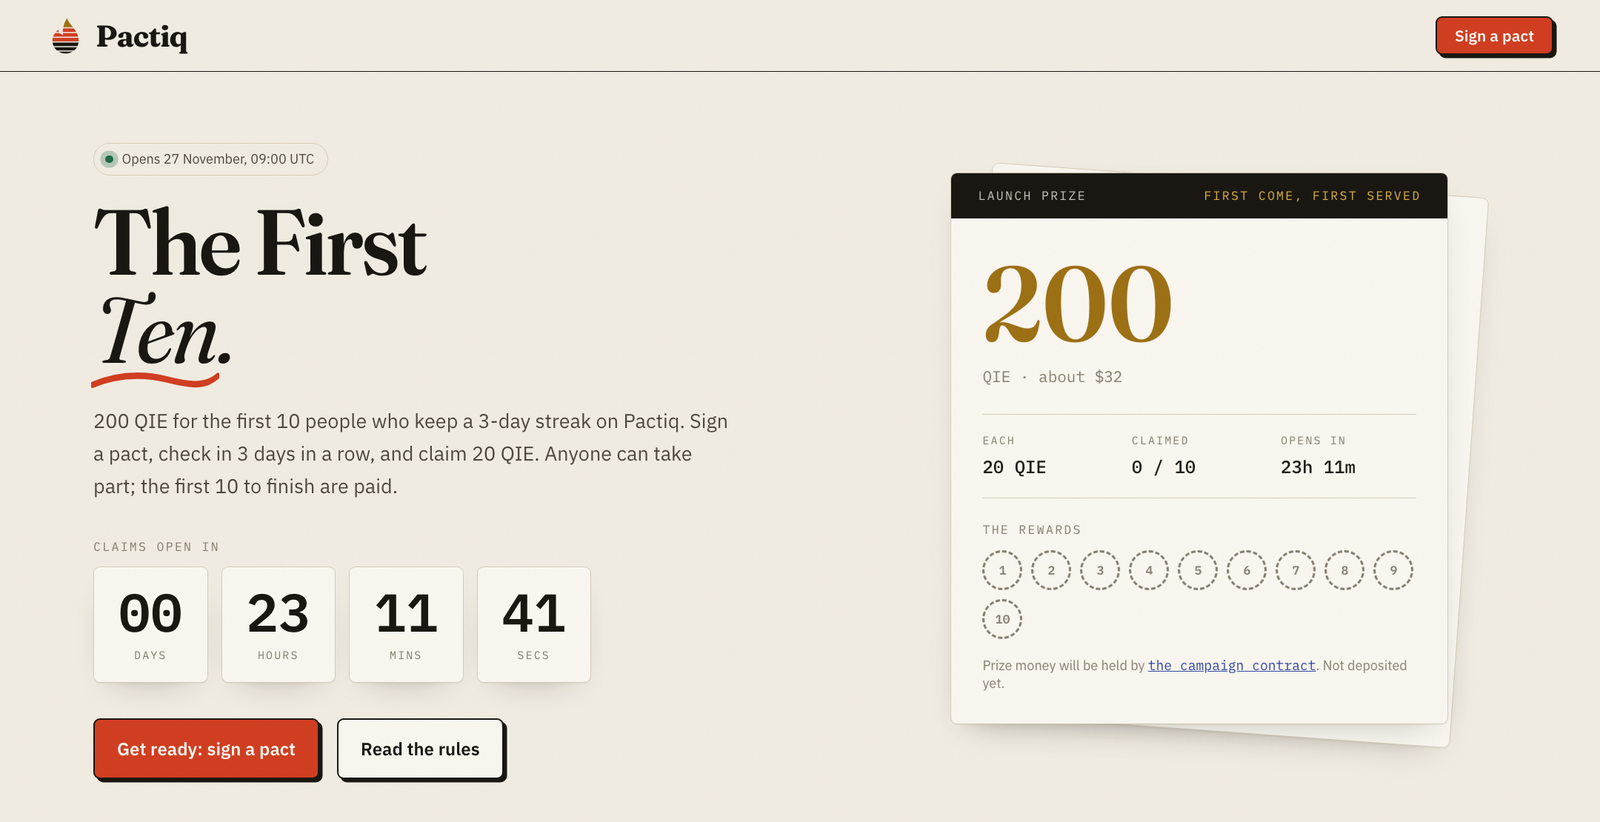
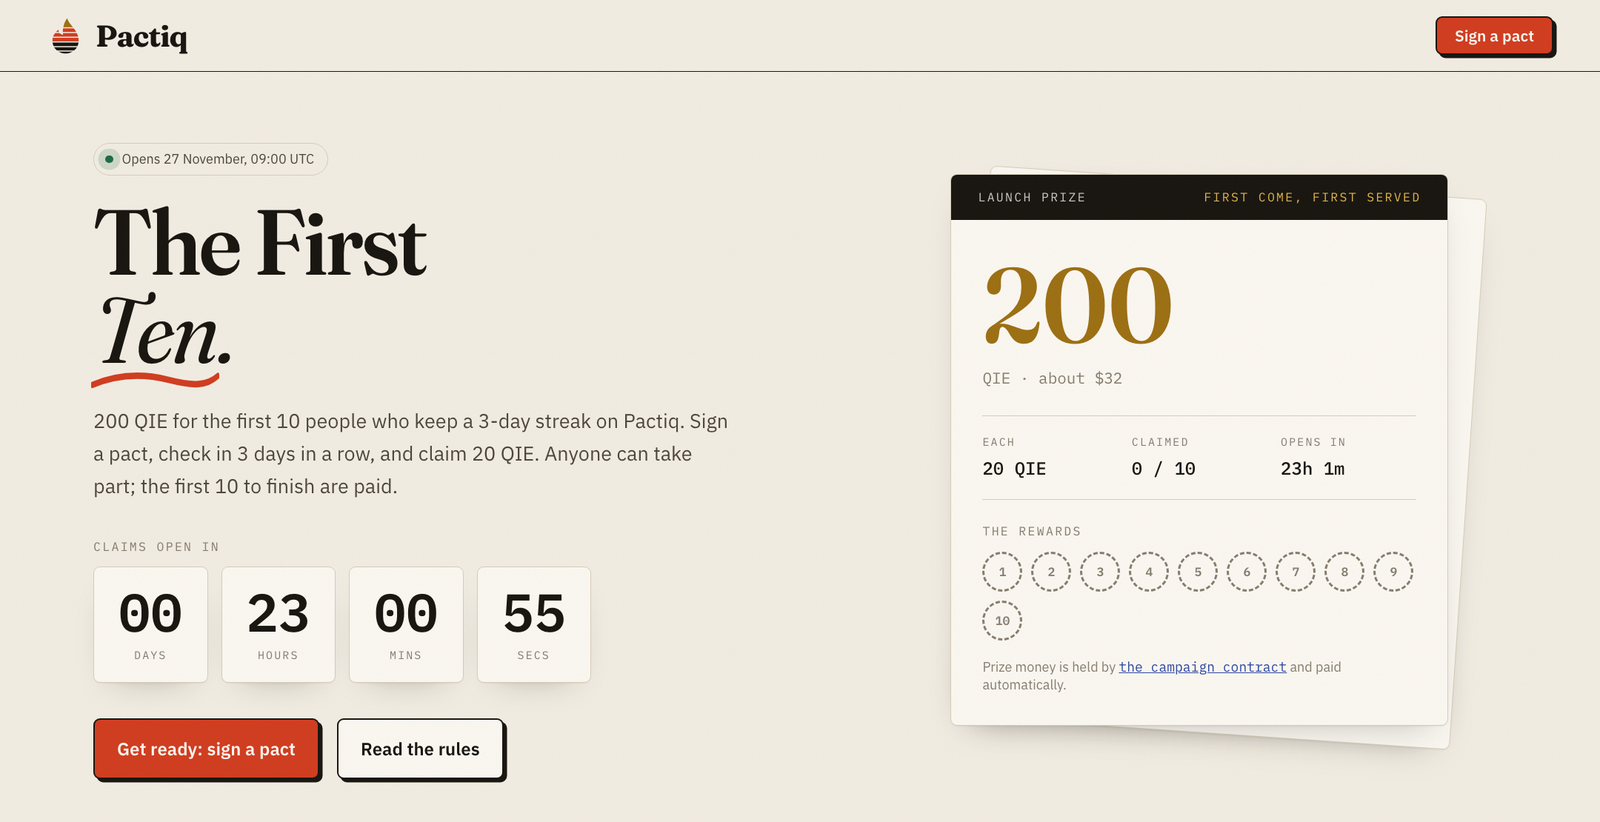
docs: the launch campaign is funded

diff --git a/README.md b/README.md
@@ -307,7 +307,7 @@ Read from the chain on Nov 26 2026 (unchanged since Nov 23): 5 pacts, 1 squad, 2
 | `.qie` names checked against QIE's registries | No verified check-in, settlement or badge exists on mainnet yet (Nov 26 2026) |
 | AI verdicts from a real vision model on the 0G Compute Router | The AI witness has not yet been scored on a set of real check-in photos (`pnpm witness:eval` exists for that) |
 | The hosted app at [usepactiq.vercel.app](https://usepactiq.vercel.app), with totals, ticker, squads and register read from the chain | Push reminders are built and tested locally, not yet delivered from a hosted deployment |
-| The launch campaign contract and its immutable terms | The campaign holds 0 QIE until its 200 QIE prize is deposited; the page says "Not deposited yet" |
+| The launch campaign contract and its immutable terms, funded with 204 QIE on Nov 26 2026 ([transaction](https://mainnet.qie.digital/tx/0xf9b1b328de01e61442c6e87f4dd4395f3cf45f190f096e73befcc8766dcb88ed)) | |
 | | No charity is listed on mainnet |
 
 ## Tech stack
@@ -406,7 +406,7 @@ cd ../frontend && pnpm lint && pnpm test && pnpm build             # verdict rul
    ```
 4. **Host the frontend** (for example Vercel, root directory `frontend`). Set the variables from the table above; set the `NEXT_PUBLIC_*` ones before building, because they are inlined at build time. Add an Upstash Redis database so rate limits and subscribers survive between requests.
 5. **Reminders.** In the GitHub repository, set the secrets `PACTIQ_APP_URL` and `PACTIQ_CRON_SECRET`. The workflow then calls the cron route hourly. On iPhone, web push works only after the site is added to the home screen.
-6. **After hosting.** Point the badges at the real URL with `setBaseURI`, optionally list a charity with `setCharity`, and deposit the campaign's 200 QIE with a plain transfer to its address.
+6. **After hosting.** Point the badges at the real URL with `setBaseURI`, optionally list a charity with `setCharity`. The campaign was funded with a plain transfer to its address (204 QIE, Nov 26 2026).
 7. **If the ABI changes:** `cd contracts && forge build && cd ../frontend && pnpm abi`.
 
 ## Repository map
